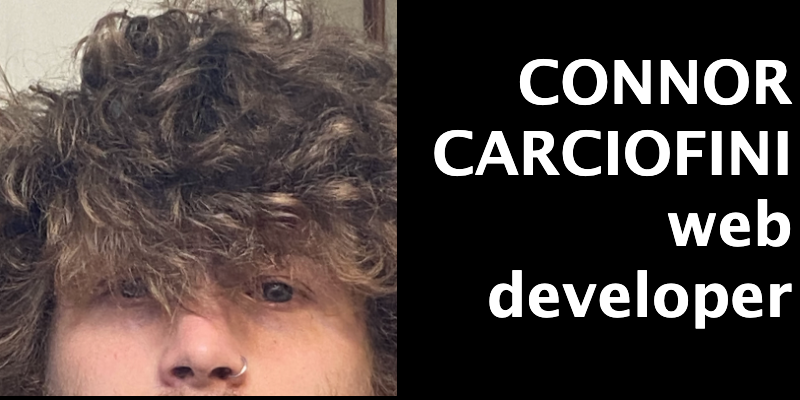
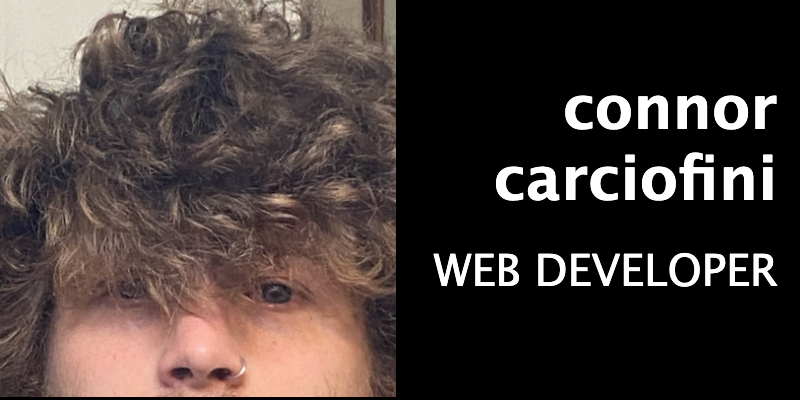
fine tuning card

diff --git a/client/src/pages/Portfolio/index.js b/client/src/pages/Portfolio/index.js
@@ -1,31 +1,32 @@
 import React from 'react'
 import dealwithit from '../../assets/images/dealwithit.png'
-// import { NavLink } from 'react-router-dom';
-
+import me from '../../assets/images/me.png'
 
 const Portfolio = () => {
     return (
-        <div className="container twocolumns top">
+        <div className="container centertext top">
+            {/* <div className="container twocolumns">
+                <div>
+                <img id="me" src={me} alt="literally me" width="200px"></img>
+                </div>
+                <div className='righttext top'>
+                    <h3>connor carciofini</h3>
+                    <p className="topbit">WEB DEVELOPER</p>
+                </div>
+            </div> */}
             <div>
                 <h3>WEATHERBOT!</h3>
-                <p>Weatherbot is a worldwide weather fetching app, where you can register and save locations. In addition to current weather conditions, daily and hourly forecasts are also available.</p>
+                <p>Weatherbot is a worldwide weather app with current, hourly, and daily forecasts, and the ability to save favorite locations</p>
+                <p>*image of weatherbot goes here...*</p>
             </div>
             <div>
-                <p>image of weatherbot goes here...</p>
-            </div>
-            <div>
-                <img id="dealwithit" src={dealwithit} alt="literally me"></img>
-            </div>
-            <div className="righttext">
                 <h3>DEAL WITH IT</h3>
                 <p>Deal With It is a full-stack interactive card game application with betting capabilities and authentication, developed by my team in the University of Minnesota's web development bootcamp. The app is currently live on <a href="https://cjc-highrollers.herokuapp.com/">Heroku.</a></p>
             </div>
             <div>
                 <h3>AND I GUESS ONE MORE!!!</h3>
                 <p>another project and i'll describe it</p>
-            </div>
-            <div>
-                <p>and the picture will go here</p>
+                <p>*and the picture will go here*</p>
             </div>
         </div>
     )

diff --git a/client/src/components/Header.js b/client/src/components/Header.js
@@ -12,11 +12,10 @@ const Header = () => {
     return (
             <div id="navbar" className="center centertext">
                 <div id="container dropdown">
-                    <p onClick={handleDropdown}>MENU</p>
+                    <p onClick={handleDropdown}>menu</p>
                     <div onClick={handleDropdown} id="dropdowncontent" className="hide">
-                        <div className="nav"><NavLink to="/">MAIN</NavLink></div>
-                        <div className="nav"><NavLink to="/portfolio">PORTFOLIO</NavLink></div>
                         <div className="nav"><NavLink to="/resume">RESUME</NavLink></div>
+                        <div className="nav"><NavLink to="/portfolio">PORTFOLIO</NavLink></div>
                         <div className="nav"><NavLink to="/media">MEDIA</NavLink></div>
                         <div className="nav"><NavLink to="/contact">CONTACT</NavLink></div>
                     </div>

diff --git a/client/src/index.css b/client/src/index.css
@@ -127,6 +127,7 @@ li {
 .top {
   margin-top: 25px;
 }
+
 .sides {
   padding: 0% 40px 0%
 }
@@ -156,12 +157,11 @@ li {
   width: 100%;
   max-width: 350px;
 }
-/* #form {
-  padding: 30px;
-} */
+
 #frominput {
   padding: 12px 12px;
 }
+
 #messageinput {
   width: 100%;
   height: 150px;
@@ -172,25 +172,5 @@ li {
   background-color: #f8f8f8;
   font-size: 16px;
   resize: none;
-}
-
-#green {
-  background-color:rgb(198, 232, 149);
-}
-
-#blue {
-  background-color: rgb(89, 89, 189);
-}
-
-#yellow {
-  background-color: rgb(255, 225, 0);
-}
-
-#orange {
-  background-color: rgb(244, 130, 0);
-}
-
-#pink {
-  background-color: rgb(243, 199, 206);
 }
 

diff --git a/client/src/App.js b/client/src/App.js
@@ -1,6 +1,7 @@
 import React from 'react'
 import './index.css'
 import Header from './components/Header'
+import Card from './components/Card'
 import Main from './pages/Main'
 import Resume from './pages/Resume'
 import Portfolio from './pages/Portfolio';
@@ -12,6 +13,7 @@ function App() {
   return (
     <div>
       < Header />
+      < Card />
       <Routes>
         <Route path="/" element={< Main />}></Route>
         <Route path="/portfolio" element={< Portfolio />}></Route>

diff --git a/client/src/pages/Resume/index.js b/client/src/pages/Resume/index.js
@@ -2,11 +2,11 @@ import React from 'react'
 
 const Resume = () => {
   return (
-    <div class="container top centertext">
-      <h1>AWW HORSE APPLES!</h1>
-      <p>i did a lot of stuff</p>
-      <p>learned a lot of things</p>
-      <p>yeah man</p>
+    <div>
+      <div class="container top centertext">
+        <h3>education</h3>
+
+      </div>
     </div>
   )
 }

diff --git a/client/src/pages/Main/index.js b/client/src/pages/Main/index.js
@@ -4,7 +4,7 @@ import Card from '../../components/Card'
 
 const Main = () => {
     return (
-            < Card />
+        <></>
     )
 }
 
